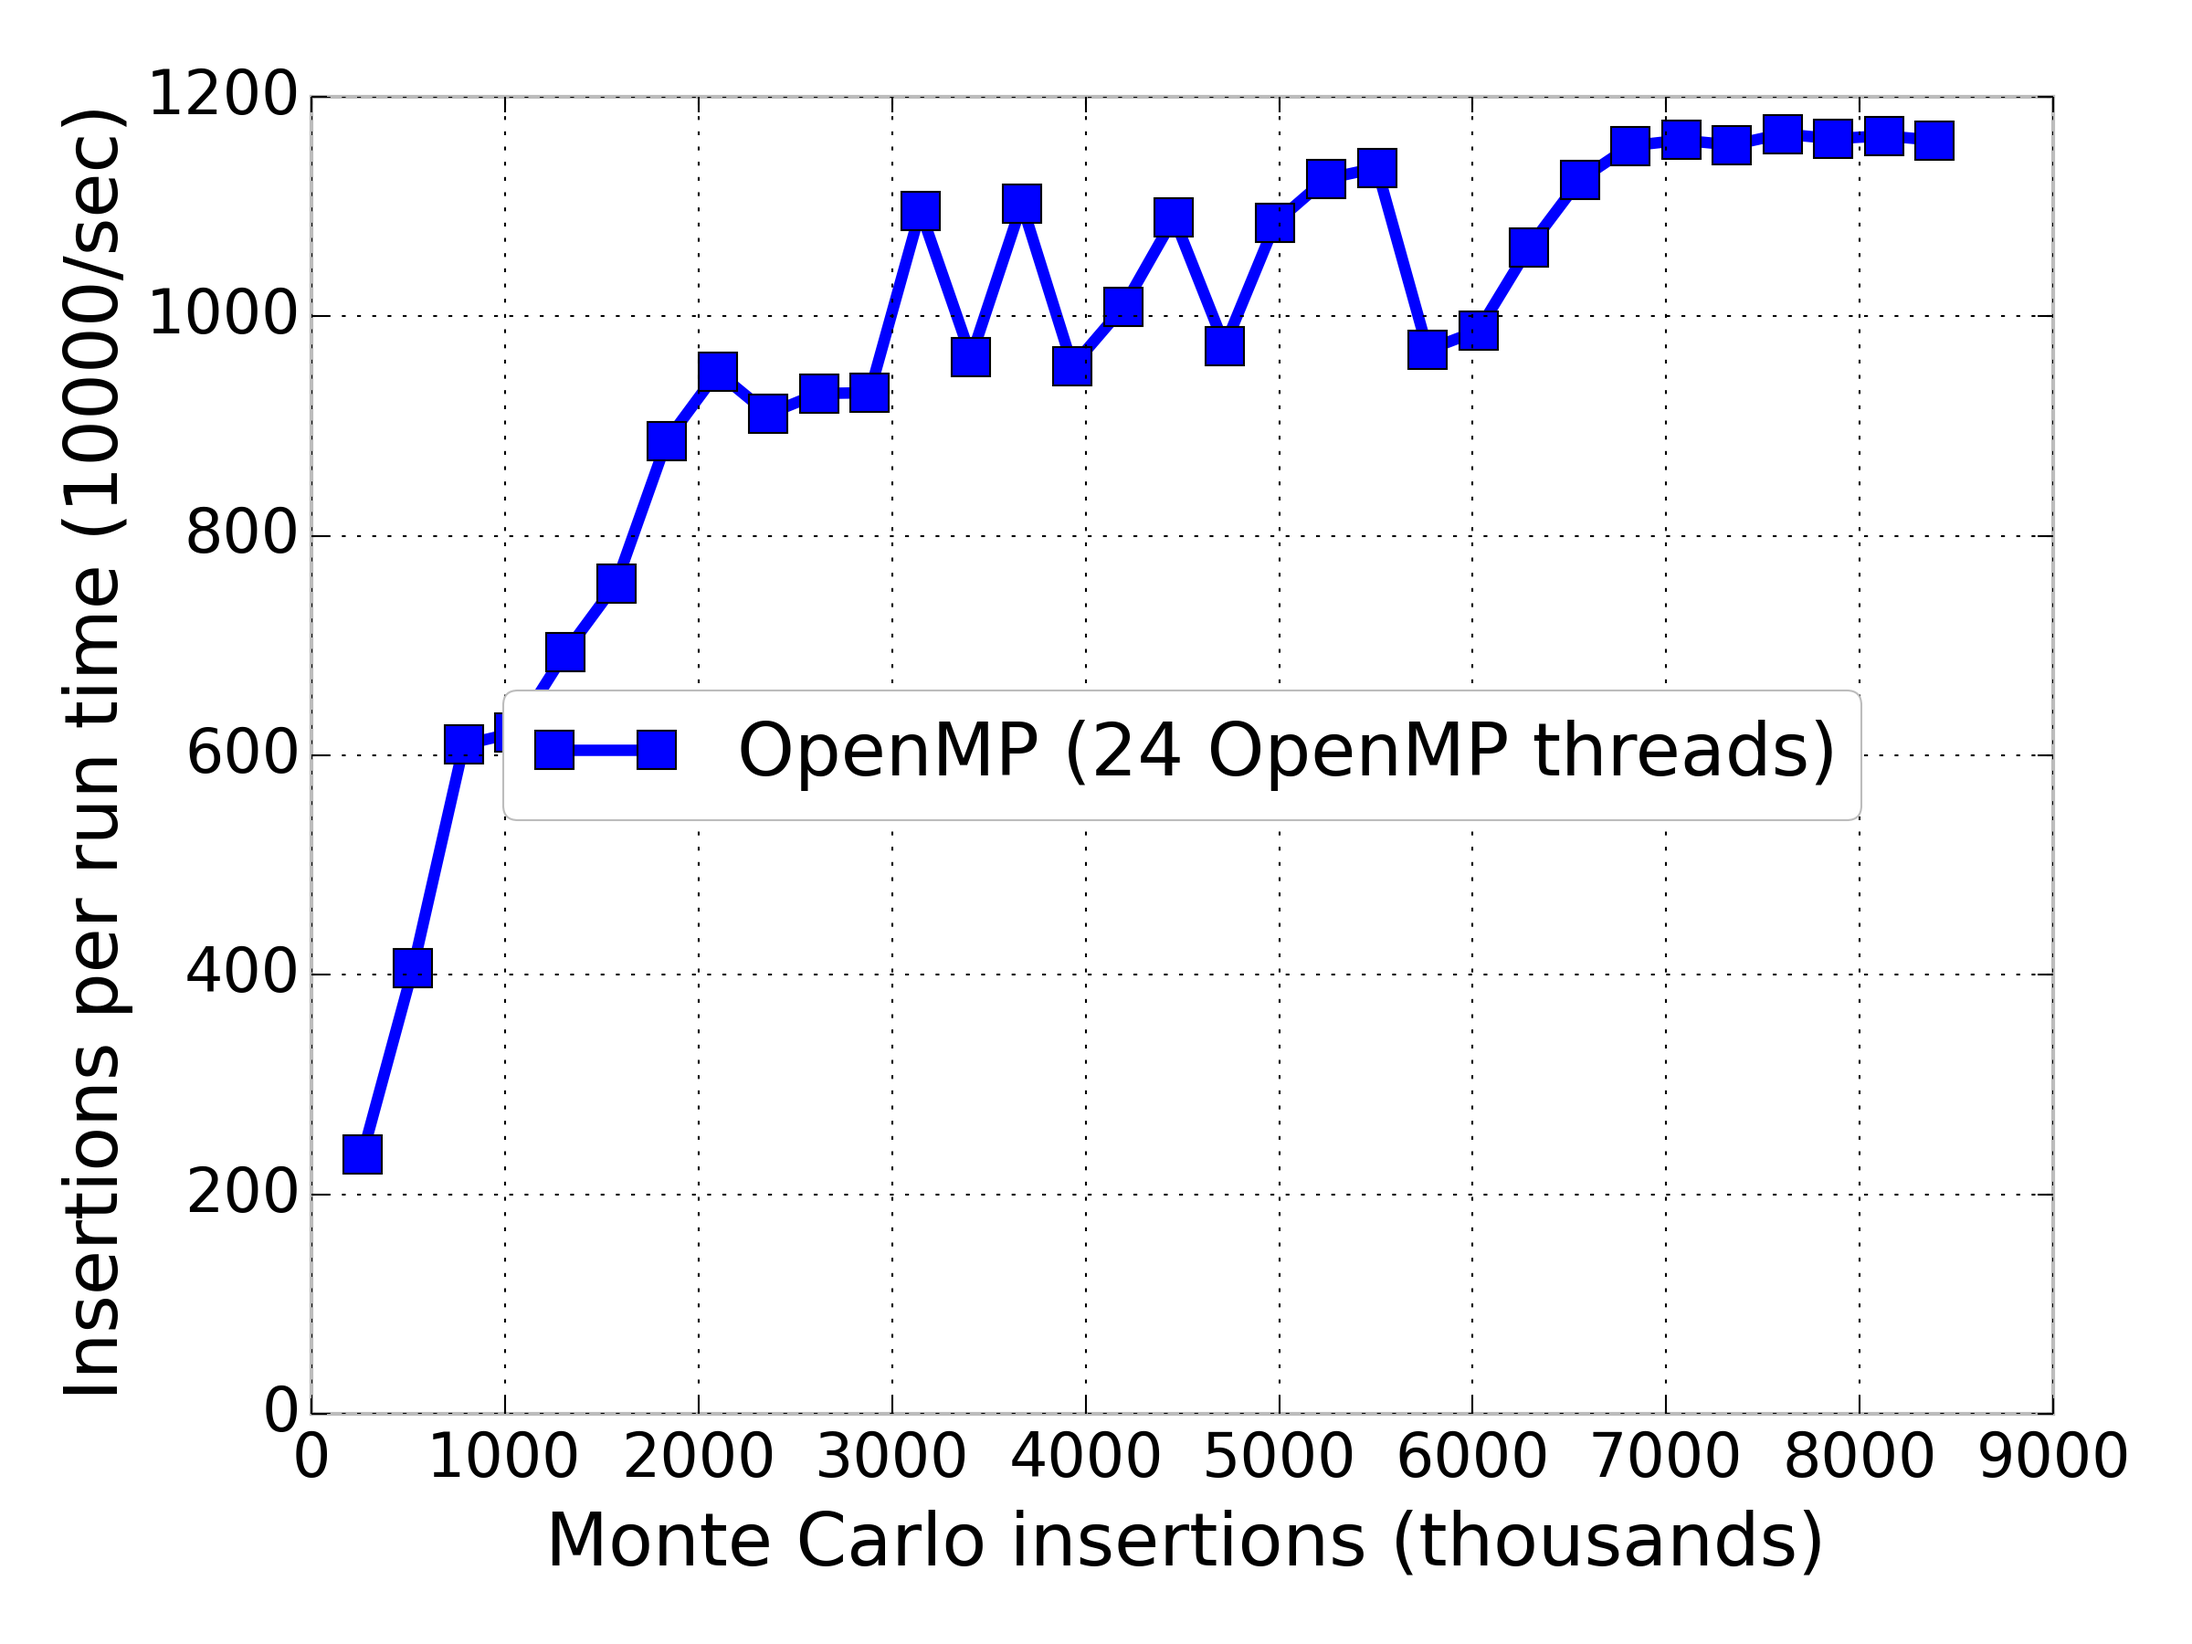
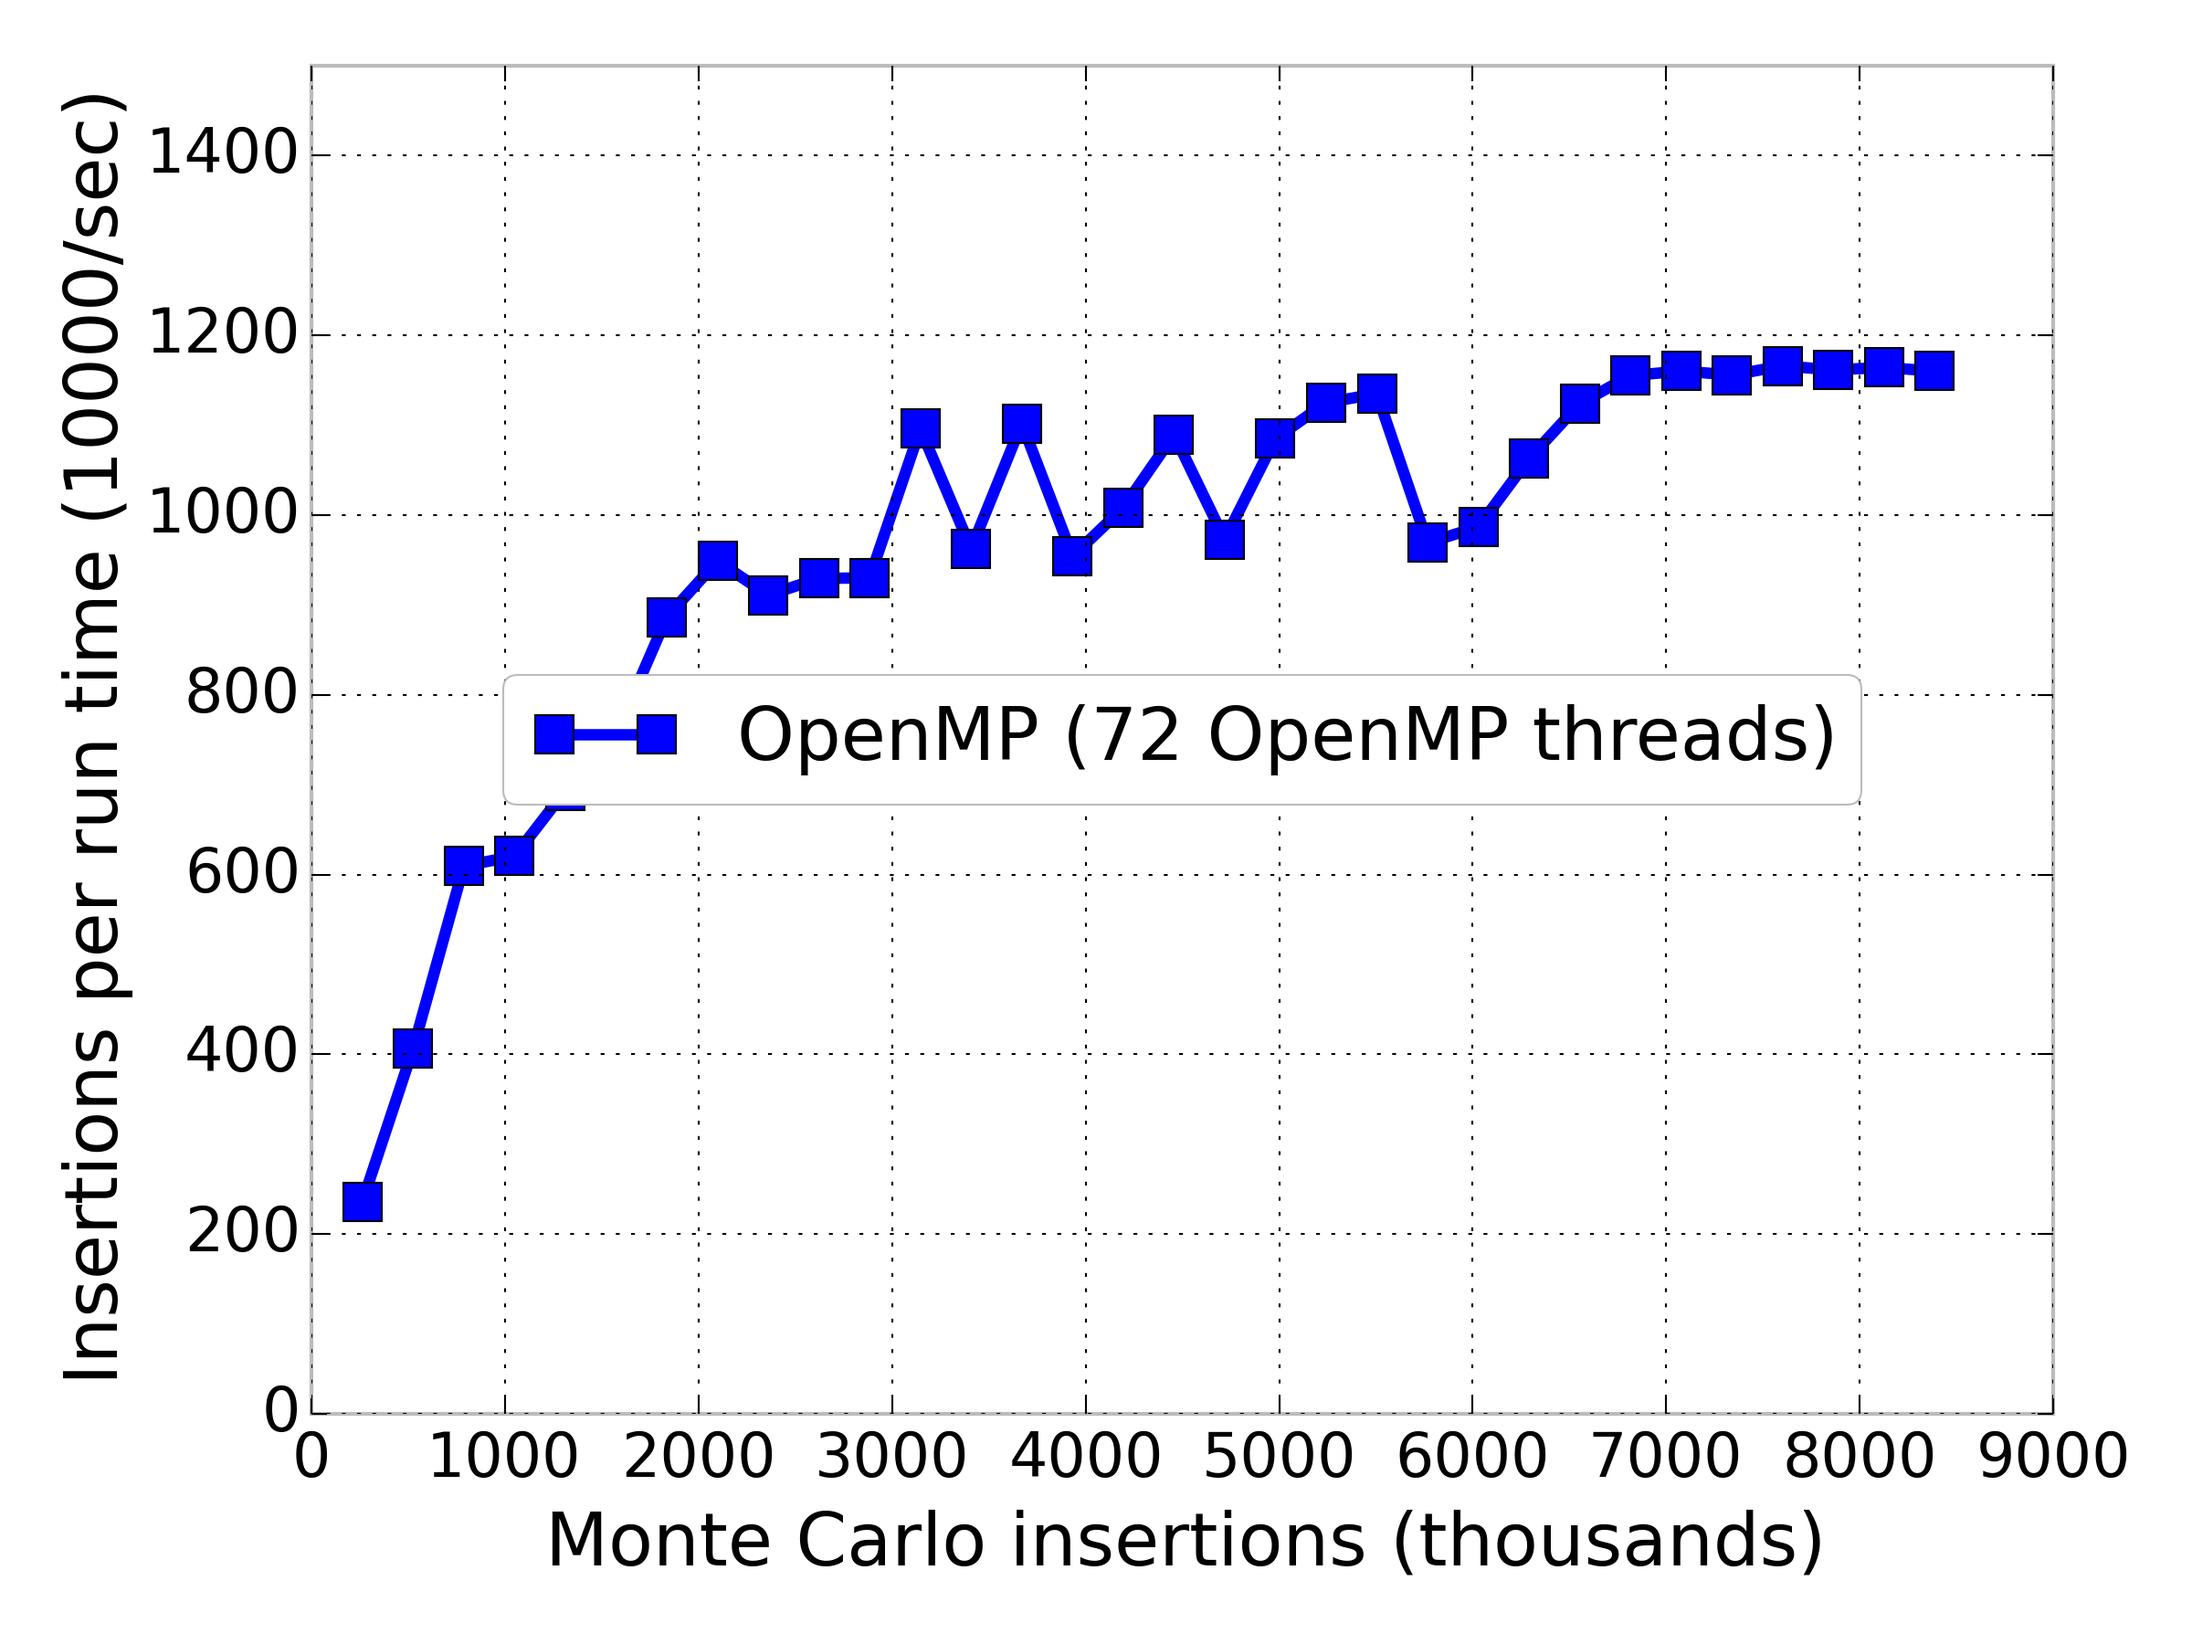
label figure correctly

Changed region(s): [[0.0938, 0.0933, 0.9062, 0.7778], [0.0312, 0.0311, 0.9375, 0.8711]]

diff --git a/plot_performance.py b/plot_performance.py
@@ -31,12 +31,13 @@ plt.xlabel("Monte Carlo insertions (thousands)")
 plt.ylabel("Insertions per run time (10000/sec)")
 
 plt.plot(df_OpenMP["ninsertions"] / 1000.0, df_OpenMP["ninsertions"] / df_OpenMP["sec"] / 10000.0, marker='s', 
-        color='b', markersize=10, clip_on=False, label='OpenMP (24 OpenMP threads)')
+        color='b', markersize=10, clip_on=False, label='OpenMP (72 OpenMP threads)')
 #plt.plot(df_CUDA["ninsertions"] / 1000.0, df_CUDA["ninsertions"] / df_CUDA["sec"] / 10000.0, marker='o', 
 #        color='g', markersize=10, clip_on=False, label='CUDA (64 blocks, 256 threads)')
 
 plt.xlim([0, 9000])
-plt.ylim(ymin=0)
+#plt.ylim(ymin=0)
+plt.ylim([0, 1500])
 
 plt.legend(loc='center')
 
